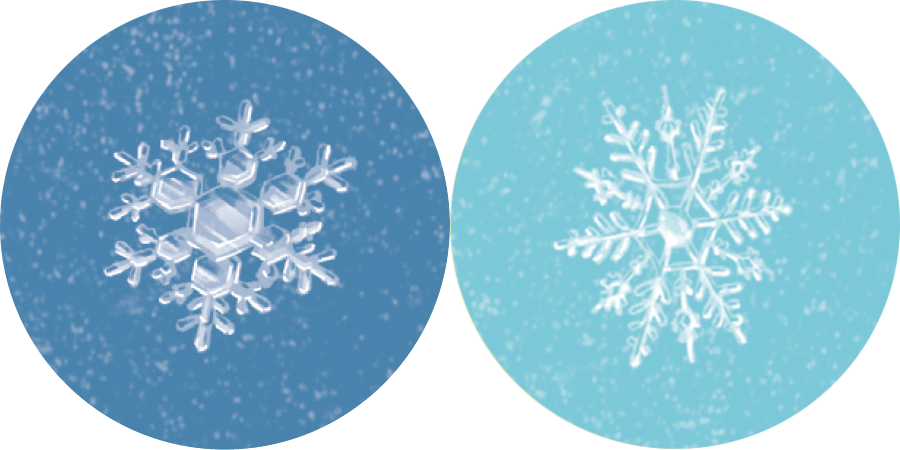
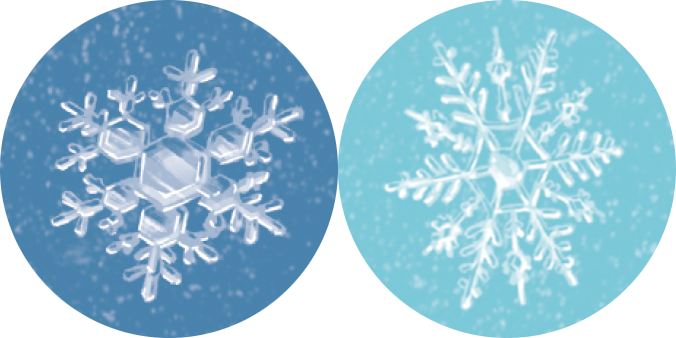
[IMG] Use publisher image for tokens
fix cut 75% of token from PDF

diff --git a/modules/css/icons.scss b/modules/css/icons.scss
@@ -15,10 +15,10 @@
             border-radius: 10px;
             border-radius: 100%;
             background-image: url("img/icons.png");
-            $icons_img_width: 900px;
-            $icons_img_height: 450px;
-            $icon_img_width: 450px;
-            $icon_img_height: 450px;
+            $icons_img_width: 676px;
+            $icons_img_height: 338px;
+            $icon_img_width: 338px;
+            $icon_img_height: 338px;
             $icon_img_ratio: math.div($icon_width, $icon_img_width );
 
             background-size: 

diff --git a/modules/css/meeples.scss b/modules/css/meeples.scss
@@ -6,10 +6,10 @@ $token_counter_width : 40px;
     border-radius: 10px;
     border-radius: 100%;
     background-image: url("img/icons.png");
-    $icons_img_width: 900px;
-    $icons_img_height: 450px;
-    $icon_img_width: 450px;
-    $icon_img_height: 450px;
+    $icons_img_width: 676px;
+    $icons_img_height: 338px;
+    $icon_img_width: 338px;
+    $icon_img_height: 338px;
     $icon_img_ratio: math.div($token_counter_width, $icon_img_width );
 
     background-size: 
